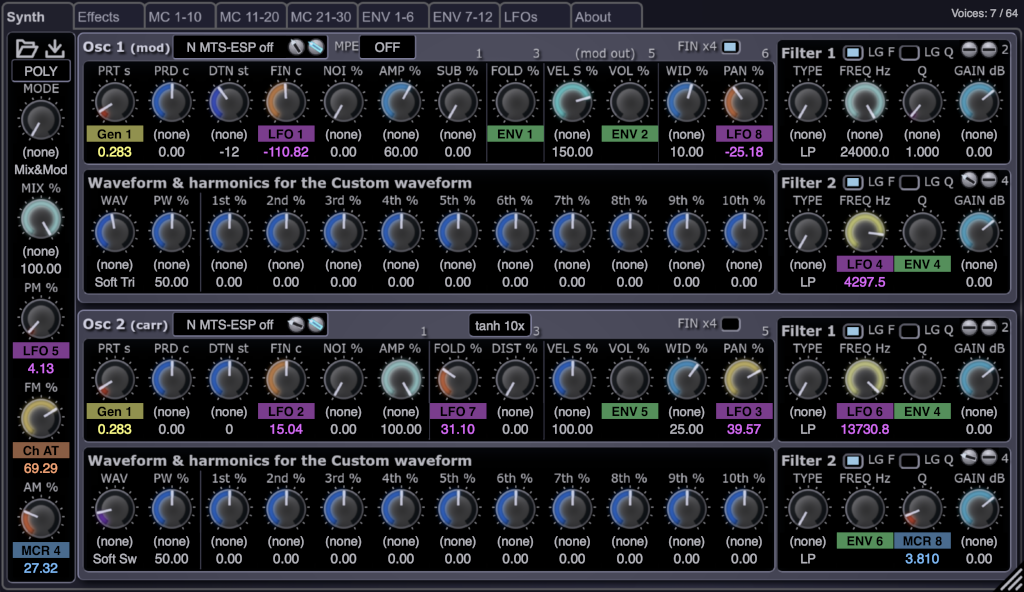
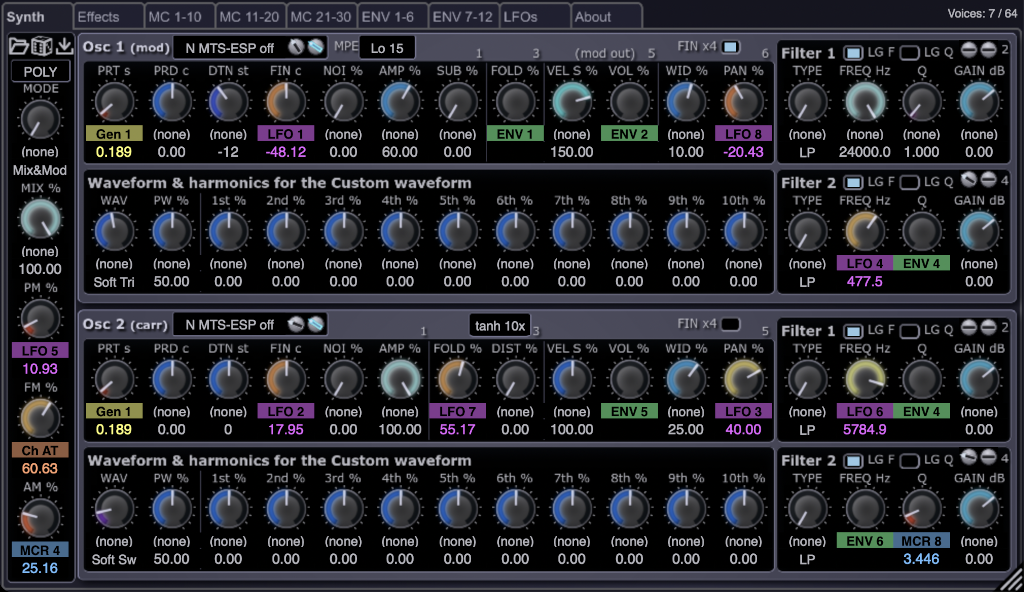
publish v4.1.0

diff --git a/index.html b/index.html
@@ -356,7 +356,7 @@ small {
         <div class="section">
           <div>
             <a id="download-recommended-link" href="">
-              Download JS80P v4.0.2 (VST 3)
+              Download JS80P v4.1.0 (VST 3)
               <svg class="icon" viewBox="0 0 500 500" xmlns="http://www.w3.org/2000/svg">
                <g>
                 <title>Download</title>
@@ -374,7 +374,7 @@ small {
         </div>
       </div>
       <div class="section">
-        <h2 class="center">Download Options (v4.0.2)</h2>
+        <h2 class="center">Download Options (v4.1.0)</h2>
         <p class="center">
           <a href="#install-dist">Which distribution should I download?</a>
         </p>
@@ -389,32 +389,32 @@ small {
             </p>
             <ul>
               <li>
-                VST 3 Bundle, AVX: <a href="https://github.com/attilammagyar/js80p/releases/download/v4.0.2/js80p-4_0_2-avx-vst3_bundle.zip">Download (9.7M)</a>
+                VST 3 Bundle, AVX: <a href="https://github.com/attilammagyar/js80p/releases/download/v4.1.0/js80p-4_1_0-avx-vst3_bundle.zip">Download (9.9M)</a>
               </li>
               <li>
-                VST 3 Bundle, SSE2: <a href="https://github.com/attilammagyar/js80p/releases/download/v4.0.2/js80p-4_0_2-sse2-vst3_bundle.zip">Download ( 23M)</a>
+                VST 3 Bundle, SSE2: <a href="https://github.com/attilammagyar/js80p/releases/download/v4.1.0/js80p-4_1_0-sse2-vst3_bundle.zip">Download ( 23M)</a>
               </li>
             </ul>
 
             <h3>Windows</h3>
             <ul>
               <li>
-                X64 AVX, VST 3 Single File: <a href="https://github.com/attilammagyar/js80p/releases/download/v4.0.2/js80p-4_0_2-windows-x86_64-avx-vst3_single.zip">Download (4.9M)</a>
+                X64 AVX, VST 3 Single File: <a href="https://github.com/attilammagyar/js80p/releases/download/v4.1.0/js80p-4_1_0-windows-x86_64-avx-vst3_single.zip">Download (5.0M)</a>
               </li>
               <li>
-                X64 AVX, FST (VST 2.4): <a href="https://github.com/attilammagyar/js80p/releases/download/v4.0.2/js80p-4_0_2-windows-x86_64-avx-fst.zip">Download (4.7M)</a>
+                X64 AVX, FST (VST 2.4): <a href="https://github.com/attilammagyar/js80p/releases/download/v4.1.0/js80p-4_1_0-windows-x86_64-avx-fst.zip">Download (4.7M)</a>
               </li>
               <li>
-                X64 SSE2, VST 3 Single File: <a href="https://github.com/attilammagyar/js80p/releases/download/v4.0.2/js80p-4_0_2-windows-x86_64-sse2-vst3_single.zip">Download (4.9M)</a>
+                X64 SSE2, VST 3 Single File: <a href="https://github.com/attilammagyar/js80p/releases/download/v4.1.0/js80p-4_1_0-windows-x86_64-sse2-vst3_single.zip">Download (5.0M)</a>
               </li>
               <li>
-                X64 SSE2, FST (VST 2.4): <a href="https://github.com/attilammagyar/js80p/releases/download/v4.0.2/js80p-4_0_2-windows-x86_64-sse2-fst.zip">Download (4.7M)</a>
+                X64 SSE2, FST (VST 2.4): <a href="https://github.com/attilammagyar/js80p/releases/download/v4.1.0/js80p-4_1_0-windows-x86_64-sse2-fst.zip">Download (4.7M)</a>
               </li>
               <li>
-                X86 SSE2, VST 3 Single File: <a href="https://github.com/attilammagyar/js80p/releases/download/v4.0.2/js80p-4_0_2-windows-x86-sse2-vst3_single.zip">Download (5.0M)</a>
+                X86 SSE2, VST 3 Single File: <a href="https://github.com/attilammagyar/js80p/releases/download/v4.1.0/js80p-4_1_0-windows-x86-sse2-vst3_single.zip">Download (5.0M)</a>
               </li>
               <li>
-                X86 SSE2, FST (VST 2.4): <a href="https://github.com/attilammagyar/js80p/releases/download/v4.0.2/js80p-4_0_2-windows-x86-sse2-fst.zip">Download (4.7M)</a>
+                X86 SSE2, FST (VST 2.4): <a href="https://github.com/attilammagyar/js80p/releases/download/v4.1.0/js80p-4_1_0-windows-x86-sse2-fst.zip">Download (4.8M)</a>
               </li>
             </ul>
           </div>
@@ -423,22 +423,22 @@ small {
             <h3>Linux</h3>
             <ul>
               <li>
-                x86_64 AVX, VST 3 Single File: <a href="https://github.com/attilammagyar/js80p/releases/download/v4.0.2/js80p-4_0_2-linux-x86_64-avx-vst3_single.zip">Download (4.3M)</a>
+                x86_64 AVX, VST 3 Single File: <a href="https://github.com/attilammagyar/js80p/releases/download/v4.1.0/js80p-4_1_0-linux-x86_64-avx-vst3_single.zip">Download (4.4M)</a>
               </li>
               <li>
-                x86_64 AVX, FST (VST 2.4): <a href="https://github.com/attilammagyar/js80p/releases/download/v4.0.2/js80p-4_0_2-linux-x86_64-avx-fst.zip">Download (4.2M)</a>
+                x86_64 AVX, FST (VST 2.4): <a href="https://github.com/attilammagyar/js80p/releases/download/v4.1.0/js80p-4_1_0-linux-x86_64-avx-fst.zip">Download (4.2M)</a>
               </li>
               <li>
-                x86_64 SSE2, VST 3 Single File: <a href="https://github.com/attilammagyar/js80p/releases/download/v4.0.2/js80p-4_0_2-linux-x86_64-sse2-vst3_single.zip">Download (4.3M)</a>
+                x86_64 SSE2, VST 3 Single File: <a href="https://github.com/attilammagyar/js80p/releases/download/v4.1.0/js80p-4_1_0-linux-x86_64-sse2-vst3_single.zip">Download (4.4M)</a>
               </li>
               <li>
-                x86_64 SSE2, FST (VST 2.4): <a href="https://github.com/attilammagyar/js80p/releases/download/v4.0.2/js80p-4_0_2-linux-x86_64-sse2-fst.zip">Download (4.2M)</a>
+                x86_64 SSE2, FST (VST 2.4): <a href="https://github.com/attilammagyar/js80p/releases/download/v4.1.0/js80p-4_1_0-linux-x86_64-sse2-fst.zip">Download (4.2M)</a>
               </li>
               <li>
-                i686 SSE2, VST 3 Single File: <a href="https://github.com/attilammagyar/js80p/releases/download/v4.0.2/js80p-4_0_2-linux-x86-sse2-vst3_single.zip">Download (4.4M)</a>
+                i686 SSE2, VST 3 Single File: <a href="https://github.com/attilammagyar/js80p/releases/download/v4.1.0/js80p-4_1_0-linux-x86-sse2-vst3_single.zip">Download (4.4M)</a>
               </li>
               <li>
-                i686 SSE2, FST (VST 2.4): <a href="https://github.com/attilammagyar/js80p/releases/download/v4.0.2/js80p-4_0_2-linux-x86-sse2-fst.zip">Download (4.2M)</a>
+                i686 SSE2, FST (VST 2.4): <a href="https://github.com/attilammagyar/js80p/releases/download/v4.1.0/js80p-4_1_0-linux-x86-sse2-fst.zip">Download (4.2M)</a>
               </li>
             </ul>
 
@@ -451,10 +451,10 @@ small {
             </p>
             <ul>
               <li>
-                VST 3 universal: <a href="https://github.com/attilammagyar/js80p/releases/download/v4.0.2/js80p-4_0_2-macos-universal-vst3_bundle-signed.pkg">Download (6.4M)</a>
+                VST 3 universal: <a href="https://github.com/attilammagyar/js80p/releases/download/v4.1.0/js80p-4_1_0-macos-universal-vst3_bundle-signed.pkg">Download (5.6M)</a>
               </li>
               <li>
-                FST (VST 2.4) universal: <a href="https://github.com/attilammagyar/js80p/releases/download/v4.0.2/js80p-4_0_2-macos-universal-fst_bundle-signed.pkg">Download (4.6M)</a>
+                FST (VST 2.4) universal: <a href="https://github.com/attilammagyar/js80p/releases/download/v4.1.0/js80p-4_1_0-macos-universal-fst_bundle-signed.pkg">Download (5.7M)</a>
               </li>
             </ul>
           </div>
@@ -463,12 +463,17 @@ small {
         <h3>Source Code</h3>
         <ul>
           <li>
-            Source: <a href="https://github.com/attilammagyar/js80p/releases/download/v4.0.2/js80p-4_0_2-src.zip">Download ( 14M)</a>
+            Source: <a href="https://github.com/attilammagyar/js80p/releases/download/v4.1.0/js80p-4_1_0-src.zip">Download ( 14M)</a>
           </li>
         </ul>
       </div>
 
       <div class="section">
+        <h3>What's New in v4.1.0</h3>
+        <ul>
+          <li><p>A random preset generator has been added to help explore the sounds of JS80P.</p></li>
+        </ul>
+
         <h3>What's New in v4.0.2</h3>
         <ul>
           <li><p>Various small CPU usage optimizations were done.</p></li>
@@ -972,6 +977,9 @@ keyboards that don't have polyphonic aftertouch):
 <li>or highest pressed key.</li>
 </ul></li>
 </ul></li>
+<li>Highly expressive built-in presets, including classic synth sounds as well
+as emulations of real instruments.</li>
+<li>Random preset generator to help explore the capabilities of JS80P.</li>
 <li>MIDI learn.</li>
 <li>Logarithmic or linear scale filter cutoff frequencies.</li>
 <li>Tempo synchronization for envelopes, LFOs, and effects.</li>
@@ -1583,17 +1591,27 @@ way of customizing how a MIDI event affects a certain parameter.</p></li>
 
 <h5>Import Patch, Export Patch</h5>
 
-<p>The two icons at the top left corner allow saving and loading synth settings
-(often called "patches" or "presets") as ordinary files, e.g. for transferring
-sounds across projects, different host applications, computers, etc.</p>
+<p>The leftmost and rightmost icons at the top left corner allow loading and
+saving synth settings (often called "patches" or "presets") as ordinary files,
+e.g. for transferring sounds across projects, different host applications,
+computers, etc.</p>
+
+<h5>Randomize Patch</h5>
+
+<p>The dice icon in the middle at the top left corner generates a random synth
+configuration (within reason) and sets up randomized effects and expressions.
+Try playing notes with varying velocities, turn the modulation wheel or the
+pitch wheel, or use aftertouch (channel pressure) and timbre control
+(MIDI CC 74, also known as "sound controller 5", "brightness", "filter cutoff",
+MPE slide, etc.) to find out how the sound reacts.</p>
 
 <p><a id="usage-synth-main-nh"></a></p>
 
 <h5>Note Handling</h5>
 
-<p>Click on the black bar below the Import Patch and Export Patch icons, or use
-the mouse wheel while holding the mouse cursor over it to change how JS80P
-handles note events. The available options are:</p>
+<p>Click on the black bar below the Import Patch, Randomize Patch, and Export
+Patch icons, or use the mouse wheel while holding the mouse cursor over it to
+change how JS80P handles note events. The available options are:</p>
 
 <ul>
 <li><p><strong>MONO</strong>: monophonic mode, only a single note can be played at a time.</p>